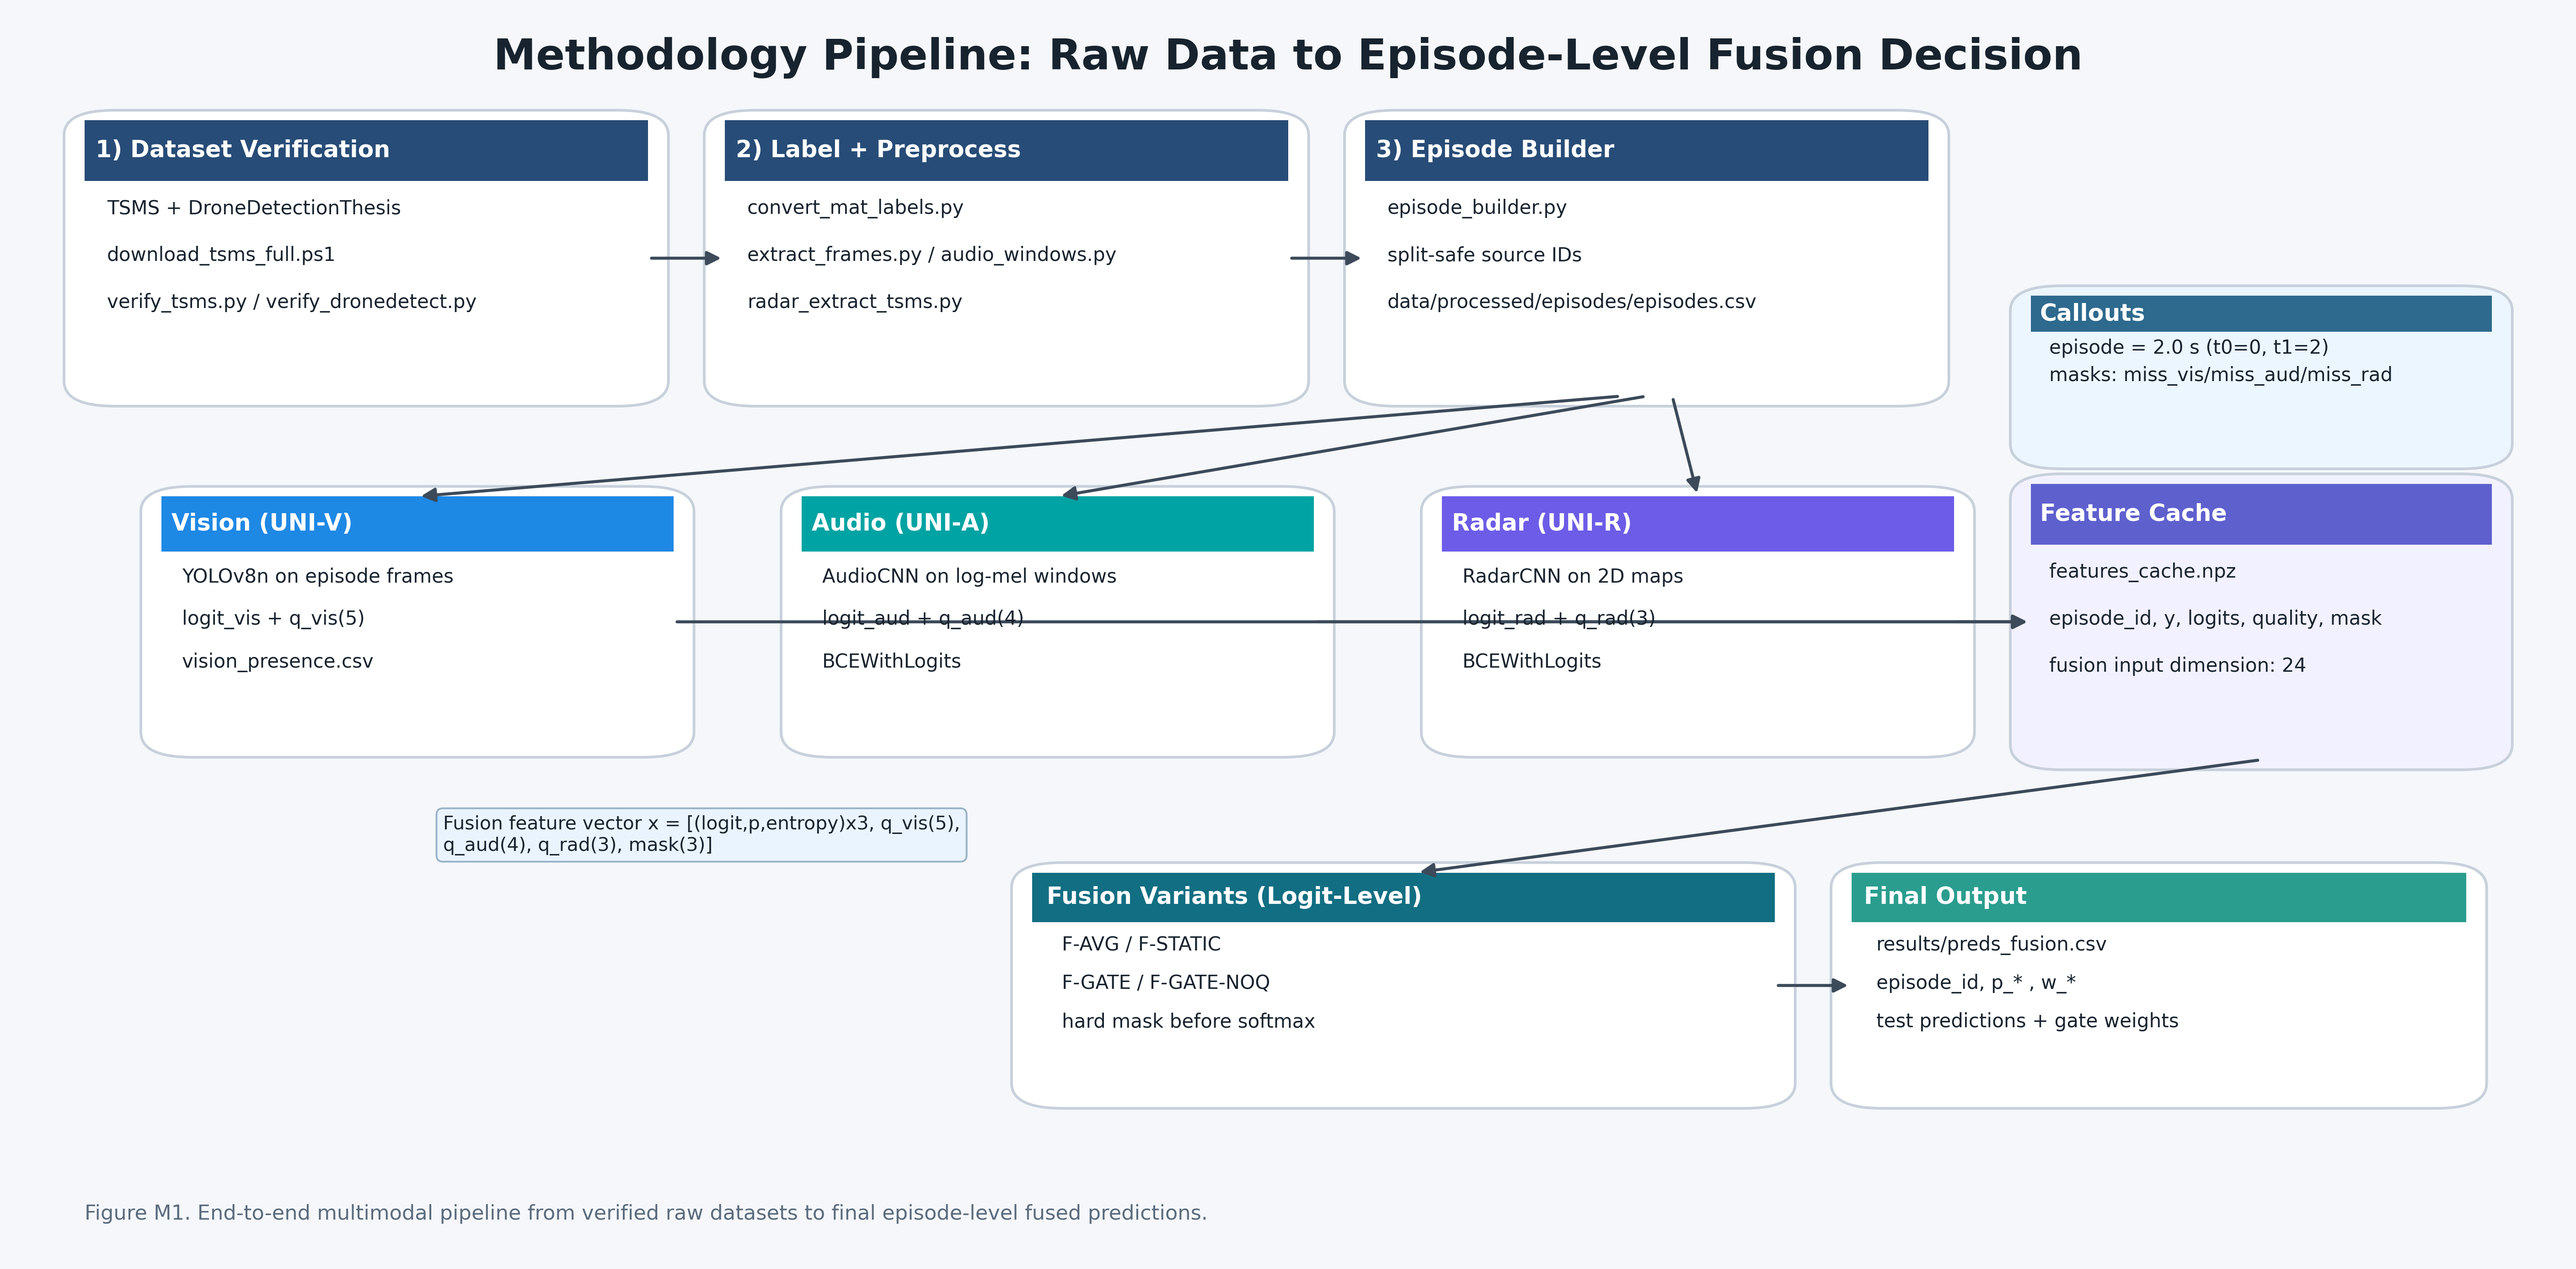
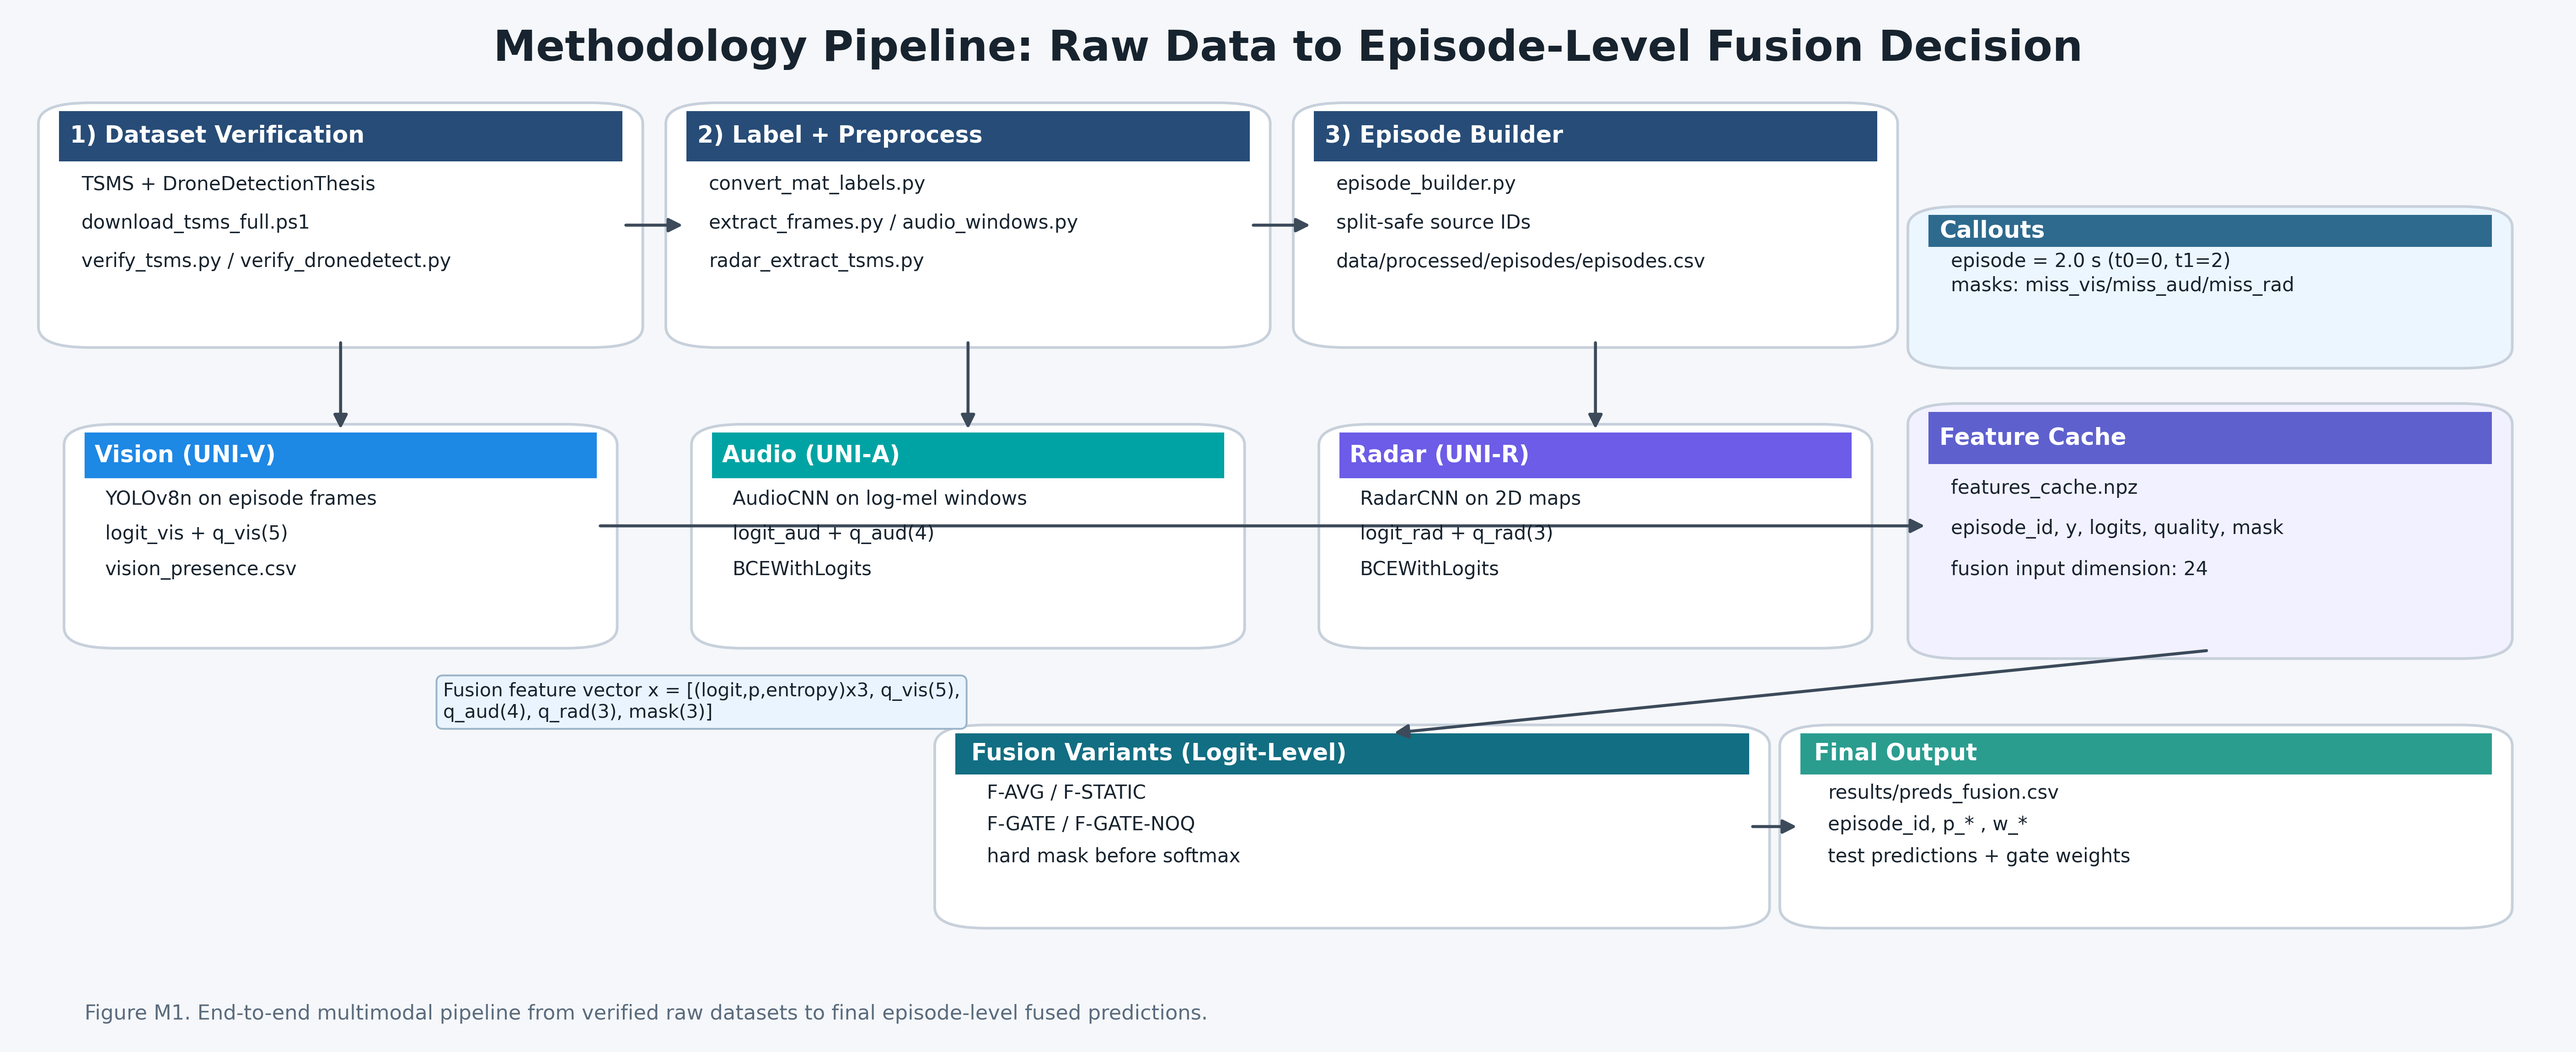
Polish methodology layouts for M1 M3 M4

diff --git a/tools/make_methodology_assets.py b/tools/make_methodology_assets.py
@@ -308,7 +308,7 @@ def pick_m2_samples(episodes: pd.DataFrame) -> M2Samples:
 
 
 def make_m1_pipeline(out_path: Path) -> list[str]:
-    fig = plt.figure(figsize=(20, 9.8), dpi=280, facecolor=BG)
+    fig = plt.figure(figsize=(20, 8.1), dpi=280, facecolor=BG)
     ax = fig.add_axes([0, 0, 1, 1], facecolor=BG)
     ax.axis("off")
     ax.set_xlim(0, 1)
@@ -327,8 +327,8 @@ def make_m1_pipeline(out_path: Path) -> list[str]:
 
     draw_stage_box(
         ax,
-        0.03,
-        0.69,
+        0.02,
+        0.68,
         0.22,
         0.22,
         "1) Dataset Verification",
@@ -340,8 +340,8 @@ def make_m1_pipeline(out_path: Path) -> list[str]:
     )
     draw_stage_box(
         ax,
-        0.28,
-        0.69,
+        0.265,
+        0.68,
         0.22,
         0.22,
         "2) Label + Preprocess",
@@ -353,8 +353,8 @@ def make_m1_pipeline(out_path: Path) -> list[str]:
     )
     draw_stage_box(
         ax,
-        0.53,
-        0.69,
+        0.51,
+        0.68,
         0.22,
         0.22,
         "3) Episode Builder",
@@ -366,10 +366,10 @@ def make_m1_pipeline(out_path: Path) -> list[str]:
     )
     draw_stage_box(
         ax,
-        0.79,
-        0.64,
-        0.18,
-        0.13,
+        0.75,
+        0.66,
+        0.22,
+        0.14,
         "Callouts",
         [
             "episode = 2.0 s (t0=0, t1=2)",
@@ -381,8 +381,8 @@ def make_m1_pipeline(out_path: Path) -> list[str]:
 
     draw_stage_box(
         ax,
-        0.06,
-        0.41,
+        0.03,
+        0.39,
         0.20,
         0.20,
         "Vision (UNI-V)",
@@ -395,8 +395,8 @@ def make_m1_pipeline(out_path: Path) -> list[str]:
     )
     draw_stage_box(
         ax,
-        0.31,
-        0.41,
+        0.275,
+        0.39,
         0.20,
         0.20,
         "Audio (UNI-A)",
@@ -409,8 +409,8 @@ def make_m1_pipeline(out_path: Path) -> list[str]:
     )
     draw_stage_box(
         ax,
-        0.56,
-        0.41,
+        0.52,
+        0.39,
         0.20,
         0.20,
         "Radar (UNI-R)",
@@ -424,10 +424,10 @@ def make_m1_pipeline(out_path: Path) -> list[str]:
 
     draw_stage_box(
         ax,
-        0.79,
-        0.40,
-        0.18,
+        0.75,
+        0.38,
         0.22,
+        0.23,
         "Feature Cache",
         [
             "features_cache.npz",
@@ -439,9 +439,9 @@ def make_m1_pipeline(out_path: Path) -> list[str]:
     )
     draw_stage_box(
         ax,
-        0.40,
-        0.13,
-        0.29,
+        0.37,
+        0.12,
+        0.31,
         0.18,
         "Fusion Variants (Logit-Level)",
         [
@@ -453,9 +453,9 @@ def make_m1_pipeline(out_path: Path) -> list[str]:
     )
     draw_stage_box(
         ax,
-        0.72,
-        0.13,
-        0.24,
+        0.70,
+        0.12,
+        0.27,
         0.18,
         "Final Output",
         [
@@ -466,23 +466,24 @@ def make_m1_pipeline(out_path: Path) -> list[str]:
         header_color="#2A9D8F",
     )
 
-    add_arrow(ax, (0.25, 0.80), (0.28, 0.80))
-    add_arrow(ax, (0.50, 0.80), (0.53, 0.80))
+    add_arrow(ax, (0.24, 0.79), (0.265, 0.79))
+    add_arrow(ax, (0.485, 0.79), (0.51, 0.79))
 
-    add_arrow(ax, (0.63, 0.69), (0.16, 0.61), rad=0.00)
-    add_arrow(ax, (0.64, 0.69), (0.41, 0.61), rad=0.00)
-    add_arrow(ax, (0.65, 0.69), (0.66, 0.61), rad=0.00)
+    # Aligned vertical fan-out from episode builder to unimodal branches.
+    add_arrow(ax, (0.13, 0.68), (0.13, 0.59))
+    add_arrow(ax, (0.375, 0.68), (0.375, 0.59))
+    add_arrow(ax, (0.62, 0.68), (0.62, 0.59))
 
-    add_arrow(ax, (0.26, 0.51), (0.79, 0.51))
-    add_arrow(ax, (0.51, 0.51), (0.79, 0.51))
-    add_arrow(ax, (0.76, 0.51), (0.79, 0.51))
+    # Clean left-to-right flow from unimodal logits/quality to feature cache.
+    add_arrow(ax, (0.23, 0.50), (0.75, 0.50))
 
-    add_arrow(ax, (0.88, 0.40), (0.55, 0.31))
-    add_arrow(ax, (0.69, 0.22), (0.72, 0.22))
+    # Feature cache to fusion and final outputs.
+    add_arrow(ax, (0.86, 0.38), (0.54, 0.30))
+    add_arrow(ax, (0.68, 0.21), (0.70, 0.21))
 
     ax.text(
         0.17,
-        0.34,
+        0.33,
         wrap(
             "Fusion feature vector x = [(logit,p,entropy)x3, q_vis(5), q_aud(4), q_rad(3), mask(3)]",
             66,
@@ -496,7 +497,7 @@ def make_m1_pipeline(out_path: Path) -> list[str]:
 
     ax.text(
         0.03,
-        0.03,
+        0.02,
         "Figure M1. End-to-end multimodal pipeline from verified raw datasets to final episode-level fused predictions.",
         ha="left",
         va="bottom",
@@ -593,7 +594,7 @@ def draw_icon_radar(ax: plt.Axes, cx: float, cy: float, s: float) -> None:
 
 
 def make_m3_unimodal_cards(out_path: Path) -> list[str]:
-    fig = plt.figure(figsize=(20, 7.6), dpi=280, facecolor=BG)
+    fig = plt.figure(figsize=(20, 6.5), dpi=280, facecolor=BG)
     ax = fig.add_axes([0, 0, 1, 1], facecolor=BG)
     ax.axis("off")
     ax.set_xlim(0, 1)
@@ -602,19 +603,19 @@ def make_m3_unimodal_cards(out_path: Path) -> list[str]:
     ax.text(0.5, 0.94, "Unimodal Branches (UNI-V / UNI-A / UNI-R)", ha="center", va="center", fontsize=24, fontweight="bold", color=TEXT_DARK)
 
     cards = [
-        (0.04, 0.17, 0.28, 0.68, "Vision Branch (UNI-V)", ACCENT_A, [
+        (0.03, 0.13, 0.30, 0.74, "Vision Branch (UNI-V)", ACCENT_A, [
             "YOLOv8n detector over frames in [t0, t1).",
             "Episode score = max drone confidence across frames.",
             "Converted to episode logit (vision_presence.csv).",
             "Used as logit_vis + quality q_vis(5).",
         ]),
-        (0.36, 0.17, 0.28, 0.68, "Audio Branch (UNI-A)", ACCENT_B, [
+        (0.35, 0.13, 0.30, 0.74, "Audio Branch (UNI-A)", ACCENT_B, [
             "Input tensor shape: [1 x 128 x 101] log-mel.",
             "AudioCNN: conv blocks -> pooled -> FC head.",
             "Objective: BCEWithLogits (pos_weight).",
             "Output: episode logit_aud.",
         ]),
-        (0.68, 0.17, 0.28, 0.68, "Radar Branch (UNI-R)", ACCENT_C, [
+        (0.67, 0.13, 0.30, 0.74, "Radar Branch (UNI-R)", ACCENT_C, [
             "Input tensor shape: [1 x 128 x 128] 2D map.",
             "Residual CNN with two downsampling stages.",
             "Objective: BCEWithLogits (pos_weight).",
@@ -624,8 +625,8 @@ def make_m3_unimodal_cards(out_path: Path) -> list[str]:
 
     for i, (x, y, w, h, title, col, lines) in enumerate(cards):
         draw_stage_box(ax, x, y, w, h, title, lines, header_color=col, body_color=WHITE)
-        cx = x + 0.83 * w
-        cy = y + 0.80 * h
+        cx = x + 0.90 * w
+        cy = y + 0.86 * h
         scale = w
         if i == 0:
             draw_icon_vision(ax, cx, cy, scale)
@@ -634,14 +635,9 @@ def make_m3_unimodal_cards(out_path: Path) -> list[str]:
         else:
             draw_icon_radar(ax, cx, cy, scale)
 
-        bx = x + 0.08 * w
-        by = y + 0.10 * h
-        for k, ww in enumerate([0.18, 0.26, 0.34]):
-            ax.add_patch(Rectangle((bx + 0.02 * k, by + 0.018 * k), ww * w, 0.022, facecolor=col, alpha=0.35, edgecolor=col))
-
     ax.text(
         0.03,
-        0.04,
+        0.025,
         "Figure M3. Three unimodal branches produce calibrated episode logits and modality-specific quality signals for fusion.",
         ha="left",
         fontsize=11.5,
@@ -651,7 +647,7 @@ def make_m3_unimodal_cards(out_path: Path) -> list[str]:
 
 
 def make_m4_fusion_gate(out_path: Path) -> list[str]:
-    fig = plt.figure(figsize=(20, 8.8), dpi=280, facecolor=BG)
+    fig = plt.figure(figsize=(20, 7.7), dpi=280, facecolor=BG)
     ax = fig.add_axes([0, 0, 1, 1], facecolor=BG)
     ax.axis("off")
     ax.set_xlim(0, 1)
@@ -662,9 +658,9 @@ def make_m4_fusion_gate(out_path: Path) -> list[str]:
     draw_stage_box(
         ax,
         0.03,
-        0.53,
+        0.50,
         0.33,
-        0.34,
+        0.35,
         "Input Feature Vector x (24-D)",
         [
             "[(logit,p,entropy) x3]",
@@ -676,10 +672,10 @@ def make_m4_fusion_gate(out_path: Path) -> list[str]:
 
     draw_stage_box(
         ax,
-        0.41,
-        0.59,
-        0.20,
-        0.22,
+        0.40,
+        0.58,
+        0.21,
+        0.24,
         "Gate Network",
         [
             "g = MLP(x)",
@@ -690,10 +686,10 @@ def make_m4_fusion_gate(out_path: Path) -> list[str]:
     )
     draw_stage_box(
         ax,
-        0.41,
+        0.40,
         0.34,
-        0.20,
-        0.22,
+        0.21,
+        0.21,
         "Masking Before Softmax",
         [
             "if m_k=0: g_k <- -1e9",
@@ -704,10 +700,10 @@ def make_m4_fusion_gate(out_path: Path) -> list[str]:
     )
     draw_stage_box(
         ax,
-        0.66,
-        0.53,
-        0.31,
-        0.34,
+        0.65,
+        0.48,
+        0.32,
+        0.37,
         "Adaptive Weights + Fused Logit",
         [
             "weights: w_v, w_a, w_r",
@@ -719,18 +715,20 @@ def make_m4_fusion_gate(out_path: Path) -> list[str]:
     labels = ["Vision", "Audio", "Radar"]
     vals = [0.63, 0.22, 0.15]
     for i, (lab, val) in enumerate(zip(labels, vals)):
-        y = 0.56 - i * 0.055
-        ax.text(0.70, y + 0.015, lab, fontsize=10.5, color=TEXT_DARK, ha="left", va="center")
-        ax.add_patch(Rectangle((0.78, y), 0.16, 0.02, facecolor="#D9E2EC", edgecolor="none"))
-        ax.add_patch(Rectangle((0.78, y), 0.16 * val, 0.02, facecolor="#2A9D8F", edgecolor="none"))
-        ax.text(0.95, y + 0.01, f"{100.0 * val:.0f}%", fontsize=9.5, color=TEXT_DARK, ha="right", va="center")
+        y = 0.57 - i * 0.055
+        bar_x = 0.77
+        bar_w = 0.15
+        ax.text(0.69, y + 0.012, lab, fontsize=10.5, color=TEXT_DARK, ha="left", va="center")
+        ax.add_patch(Rectangle((bar_x, y), bar_w, 0.018, facecolor="#D9E2EC", edgecolor="none"))
+        ax.add_patch(Rectangle((bar_x, y), bar_w * val, 0.018, facecolor="#2A9D8F", edgecolor="none"))
+        ax.text(0.935, y + 0.009, f"{100.0 * val:.0f}%", fontsize=9.5, color=TEXT_DARK, ha="right", va="center")
 
     draw_stage_box(
         ax,
-        0.66,
-        0.26,
-        0.31,
-        0.17,
+        0.65,
+        0.25,
+        0.32,
+        0.18,
         "F-GATE-NOQ Inset",
         [
             "same gate architecture",
@@ -741,7 +739,7 @@ def make_m4_fusion_gate(out_path: Path) -> list[str]:
         body_color="#F7F1FB",
     )
 
-    eq_x, eq_y, eq_w, eq_h = 0.03, 0.08, 0.94, 0.18
+    eq_x, eq_y, eq_w, eq_h = 0.03, 0.06, 0.94, 0.20
     eq_box = FancyBboxPatch(
         (eq_x, eq_y),
         eq_w,
@@ -790,11 +788,11 @@ def make_m4_fusion_gate(out_path: Path) -> list[str]:
         va="center",
     )
 
-    add_arrow(ax, (0.36, 0.70), (0.41, 0.70))
-    add_arrow(ax, (0.51, 0.59), (0.51, 0.56))
-    add_arrow(ax, (0.61, 0.46), (0.66, 0.64))
-    add_arrow(ax, (0.61, 0.70), (0.66, 0.70))
-    add_arrow(ax, (0.50, 0.34), (0.50, 0.26))
+    add_arrow(ax, (0.36, 0.69), (0.40, 0.69))
+    add_arrow(ax, (0.505, 0.58), (0.505, 0.55))
+    add_arrow(ax, (0.61, 0.69), (0.65, 0.69))
+    add_arrow(ax, (0.61, 0.47), (0.65, 0.62))
+    add_arrow(ax, (0.505, 0.34), (0.505, 0.26))
 
     ax.text(
         0.02,
